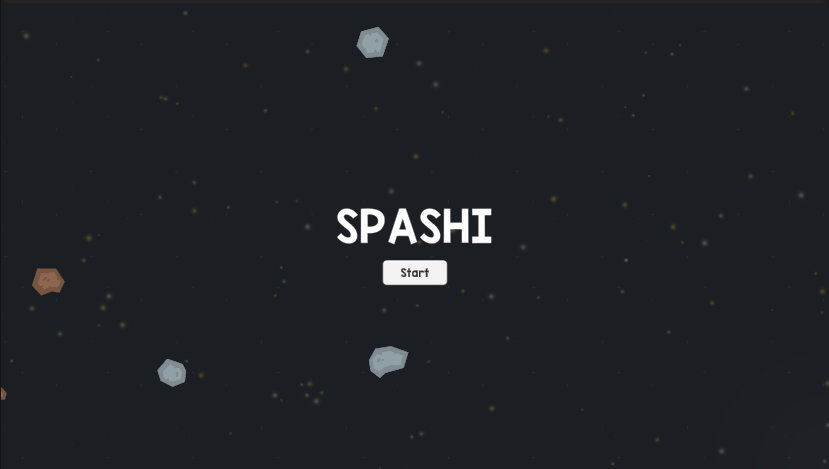
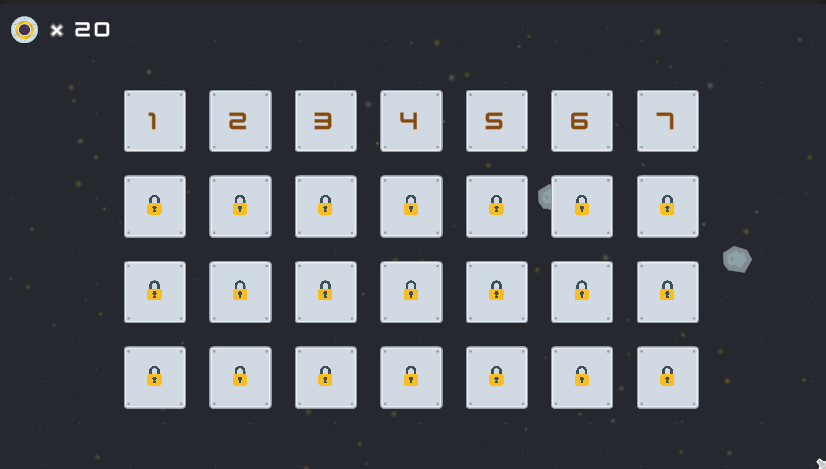
updated screenshots

diff --git a/Assets/Scripts/Data/DataManager.cs b/Assets/Scripts/Data/DataManager.cs
@@ -11,10 +11,18 @@ namespace Data
             // TODO: Read from db
             List<Level> levels = new List<Level>();
 
-            for (var i = 0; i < 28; i++)
+            levels.Add(new Level(0, 2, 1, 0, 0, 0));
+            levels.Add(new Level(1, 0, 1, 0, 0, 0));
+            levels.Add(new Level(2, 0, 1, 0, 0, 0));
+            levels.Add(new Level(3, 0, 1, 0, 0, 0));
+            levels.Add(new Level(4, 0, 1, 0, 0, 0));
+            levels.Add(new Level(5, 0, 1, 0, 0, 0));
+            levels.Add(new Level(6, 0, 1, 0, 0, 0));
+
+            for (var i = 6; i < 28; i++)
             {
                 levels.Add(
-                    new Level(i, Random.Range(0, 4), 0, 0.1f, 0.5f, Random.Range(0, 80))
+                    new Level(i, 0, 0, 0.1f, 0.5f, 28)
                 );
             }
 

diff --git a/Assets/Scripts/Data/Level.cs b/Assets/Scripts/Data/Level.cs
@@ -20,7 +20,7 @@ namespace Data
             this.starsRequired = starsRequired;
         }
 
-        public string Identifier => $"{id}";
+        public string Identifier => $"{id + 1}";
         public bool IsEnabled => DataManager.GetStarsCount() >= starsRequired;
         public bool IsPlayed => playedTimes > 0;
 

diff --git a/Assets/Scripts/Menu/MenuCanvas.cs b/Assets/Scripts/Menu/MenuCanvas.cs
@@ -5,6 +5,11 @@ public class MenuCanvas : MonoBehaviour
 {
     [SerializeField] private TextMeshProUGUI coinsText;
 
+    private void Start()
+    {
+        SetCoins(20);
+    }
+
     public void SetCoins(int coins)
     {
         coinsText.text = $"{coins}";
